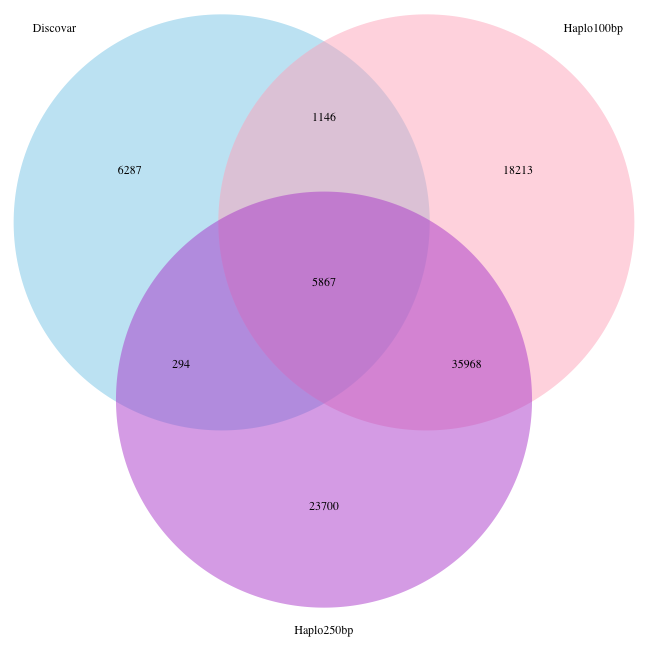
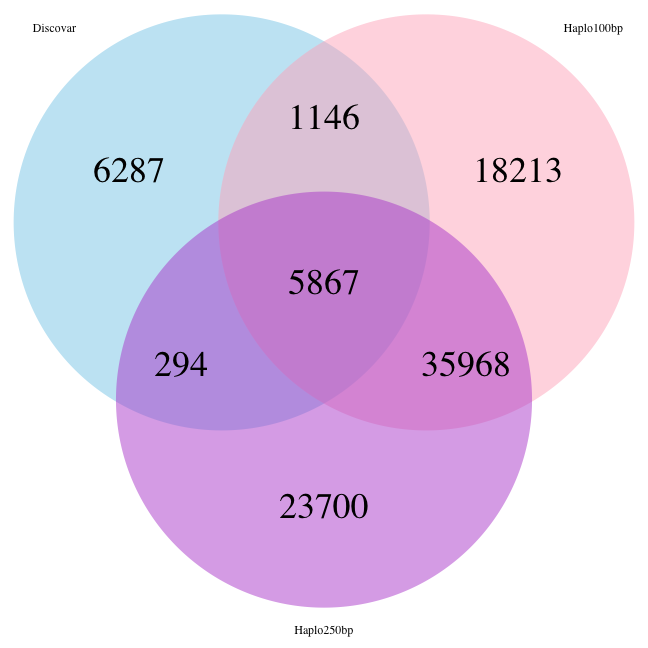
3 way venn rmd

diff --git a/reports/160425_3wayVenn/3wayVenn.md b/reports/160425_3wayVenn/3wayVenn.md
@@ -7,7 +7,7 @@ opts_chunk$set(fig.width=9, fig.height=9)
 opts_chunk$set(dev=c('png'))
 ```
 
-
+INDEL counts, disco/haplo100/haplo250
 
 ```r
 counts <- read.table("vennCounts.txt",col.names=c("type","cat","count"),colClasses = c("character","character","integer"))
@@ -22,15 +22,16 @@ a3 = icnt['001']+icnt['011']+icnt['111']+icnt['101']
 draw.triple.venn(area1 = a1, area2 = a2, area3 = a3, 
                  n12 = icnt['110']+icnt['111'], n23 = icnt['011']+icnt['111'], n13 = icnt['101']+icnt['111'], 
                  n123 = icnt['111'], category = c("Discovar", "Haplo100bp", "Haplo250bp"), lty = "blank", 
-                 fill = c("skyblue", "pink1", "mediumorchid"))
+                 fill = c("skyblue", "pink1", "mediumorchid"),euler.d=T,cex=3)
 ```
 
 ![plot of chunk unnamed-chunk-2](figure/unnamed-chunk-2-1.png)
 
 ```
-## (polygon[GRID.polygon.43], polygon[GRID.polygon.44], polygon[GRID.polygon.45], polygon[GRID.polygon.46], polygon[GRID.polygon.47], polygon[GRID.polygon.48], text[GRID.text.49], text[GRID.text.50], text[GRID.text.51], text[GRID.text.52], text[GRID.text.53], text[GRID.text.54], text[GRID.text.55], text[GRID.text.56], text[GRID.text.57], text[GRID.text.58])
+## (polygon[GRID.polygon.171], polygon[GRID.polygon.172], polygon[GRID.polygon.173], polygon[GRID.polygon.174], polygon[GRID.polygon.175], polygon[GRID.polygon.176], text[GRID.text.177], text[GRID.text.178], text[GRID.text.179], text[GRID.text.180], text[GRID.text.181], text[GRID.text.182], text[GRID.text.183], text[GRID.text.184], text[GRID.text.185], text[GRID.text.186])
 ```
 
+SNP counts, disco/haplo100/haplo250
 
 ```r
 scnt <- counts$count[counts$type=="SNP"]
@@ -50,5 +51,5 @@ draw.triple.venn(area1 = a1, area2 = a2, area3 = a3,
 ![plot of chunk unnamed-chunk-3](figure/unnamed-chunk-3-1.png)
 
 ```
-## (polygon[GRID.polygon.59], polygon[GRID.polygon.60], polygon[GRID.polygon.61], polygon[GRID.polygon.62], polygon[GRID.polygon.63], polygon[GRID.polygon.64], text[GRID.text.65], text[GRID.text.66], text[GRID.text.67], text[GRID.text.68], text[GRID.text.69], text[GRID.text.70], text[GRID.text.71], text[GRID.text.72], text[GRID.text.73], text[GRID.text.74])
+## (polygon[GRID.polygon.187], polygon[GRID.polygon.188], polygon[GRID.polygon.189], polygon[GRID.polygon.190], polygon[GRID.polygon.191], polygon[GRID.polygon.192], text[GRID.text.193], text[GRID.text.194], text[GRID.text.195], text[GRID.text.196], text[GRID.text.197], text[GRID.text.198], text[GRID.text.199], text[GRID.text.200], text[GRID.text.201], text[GRID.text.202])
 ```
